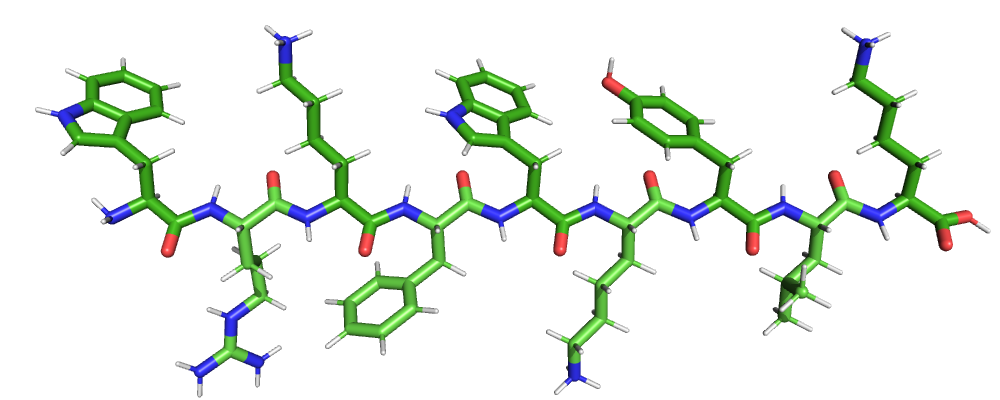
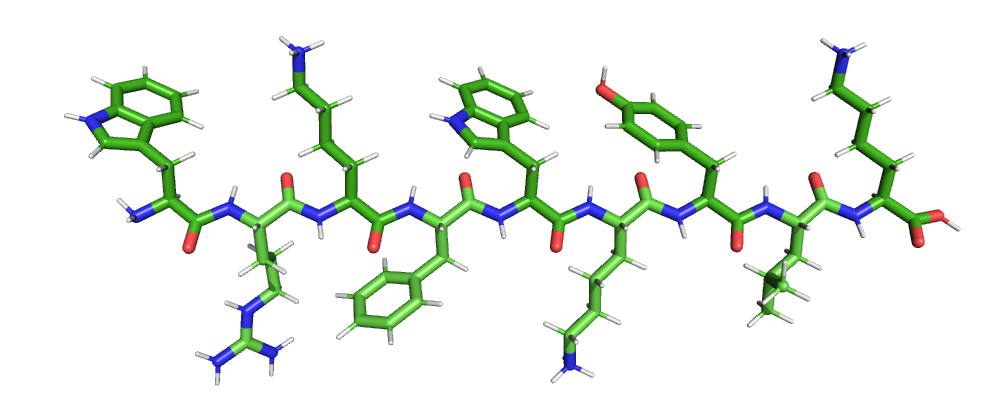
Cleaner example code

Changed region(s): [[0.031, 0.06, 0.992, 0.99]]

diff --git a/doc/examples/scripts/structure/peptide_assembly.py b/doc/examples/scripts/structure/peptide_assembly.py
@@ -6,12 +6,16 @@ This script presents a function that takes an amino acid sequence and
 builds a straight peptide structure (like a :math:`\beta`-strand) from
 it, including intramolecular bond information.
 
-The function starts by building a '*zigzag*' backbone containing ``N``,
-``CA`` and ``C`` atoms based on bond geometry.
+The function starts by building a backbone structure (N, CA, C) for all
+residues in the sequence resulting in a '*‘zigzag’*' chain.
 Then for each amino acid, the respective side chain atoms and their
 geometry are obtained from the reference PDB component dataset via
-:func:`biotite.structure.info.residue()` and the atoms are appended to
-the backbone in the right orientation via superimposition.
+:func:`biotite.structure.info.residue()` and are superimposed onto the
+backbone chain.
+The peptide bonds between the residues are formed and the atoms
+lost in condensation are removed.
+The geometry of the peptide oxygen and hydrogen atom is adjusted using
+known peptide bond geometry taken from a reference structure.
 """
 
 # Code source: Patrick Kunzmann
@@ -111,6 +115,89 @@ def append_residue(chain, residue):
     # Increment residue ID for attached residue
     residue.res_id[:] = last_res_id + 1
 
+C_N_LENGTH   = 1.34
+N_CA_LENGTH  = 1.46
+CA_C_LENGTH  = 1.54
+
+CA_C_N_ANGLE = 114
+C_N_CA_ANGLE = 123
+N_CA_C_ANGLE = 110
+
+# Reference peptide bond atom coordinates taken from 1l2y:
+# CA, C, N, O, H
+peptide_coord = np.array([
+    [-8.608, 3.135, -1.618], 
+    [-7.117, 2.964, -1.897],  
+    [-6.379, 4.031, -2.228],
+    [-6.634, 1.849, -1.758],
+    [-6.821, 4.923, -2.394]
+])
+
+
+def create_raw_backbone_coord(number_of_res):
+    """
+    Create coordinates for straight peptide chain in z-plane.
+    The peptide bonds are in trans configuration.
+    """
+    coord = np.zeros((number_of_res * 3, 3))
+    for i, angle, angle_direction, length in zip(
+        range(len(coord)),
+        itertools.cycle([CA_C_N_ANGLE, C_N_CA_ANGLE, N_CA_C_ANGLE]),
+        itertools.cycle([1, -1]),
+        itertools.cycle([C_N_LENGTH, N_CA_LENGTH, CA_C_LENGTH])
+    ):
+        if i == 0:
+            coord[i] = [0, 0, 0]
+        elif i == 1:
+            coord[i] = [0, length, 0]
+        else:
+            # Rotate about z-axis -> backbone lies in z-plane
+            rot_axis = [0, 0, angle_direction]
+            # Calculate the coordinates of a new atoms by rotating the
+            # previous bond by the given angle
+            new_coord = struc.rotate_about_axis(
+                coord[i-2],
+                axis = rot_axis,
+                angle = np.deg2rad(angle),
+                support = coord[i-1]
+            )
+            # Scale bond to correct bond length
+            bond_vector = new_coord - coord[i-1]
+            coord[i] = coord[i-1] + bond_vector * length / norm(bond_vector)
+    return coord
+
+
+def append_residue(chain, residue):
+    """
+    Append a residue to an existing chain.
+    Modify annotation arrays and remove atoms as necessary.
+    The atom coordinates are not altered.
+    """
+    if chain.array_length() == 0:
+        # Chain is empty
+        residue.res_id[:] = 1
+        return residue
+
+    last_res_id = chain.res_id[-1]
+    
+    # Remove atoms removed by peptide bond
+    chain = chain[
+        (chain.res_id != last_res_id) |
+        ~np.isin(
+            chain.atom_name,
+            ["OXT", "HXT"]
+        )
+    ]
+    residue = residue[
+        ~np.isin(
+            residue.atom_name,
+            ["H2", "H3"]
+        )
+    ]
+
+    # Increment residue ID for attached residue
+    residue.res_id[:] = last_res_id + 1
+
     # Append residue
     chain += residue
 
@@ -123,44 +210,47 @@ def append_residue(chain, residue):
     return chain
 
 
+def assemble_peptide(sequence):
+    res_names = [seq.ProteinSequence.convert_letter_1to3(r) for r in sequence]
+    backbone_coord = create_raw_backbone_coord(len(sequence))
+
+
+    chain = struc.AtomArray(0)
+    for i, res_name in enumerate(res_names):
+        residue = info.residue(res_name)
+        
+        # Superimpose residue to corresponding backbone coordinates 
+        _, transformation = struc.superimpose(
+            backbone_coord[3*i : 3*i + 3],
+            residue.coord[np.isin(residue.atom_name, ["N", "CA", "C"])]
+        )
+        residue = struc.superimpose_apply(residue, transformation)
+        
+        chain = append_residue(chain, residue)
+
+        if i != 0:
+            # Fix positions of peptide hydrogen and oxygen atom
+            ca_i, c_i, o_i = [
+                np.where(chain.atom_name == atom_name)[0][-2]
+                for atom_name in ["CA", "C", "O"]
+            ]
+            n_i, h_i = [
+                np.where(chain.atom_name == atom_name)[0][-1]
+                for atom_name in ["N", "H"]
+            ]
+            _, transformation = struc.superimpose(
+                chain.coord[[ca_i, c_i, n_i]],
+                peptide_coord[:3]
+            )
+            chain.coord[[o_i, h_i]] = struc.superimpose_apply(
+                peptide_coord[3:], transformation
+            )
+    return chain
+
+
 # Sequence of an antimicrobial peptide
 sequence = seq.ProteinSequence("WRKFWKYLK")
-res_names = [seq.ProteinSequence.convert_letter_1to3(r) for r in sequence]
-backbone_coord = create_raw_backbone_coord(len(sequence))
-
-
-chain = struc.AtomArray(0)
-for i, res_name in enumerate(res_names):
-    residue = info.residue(res_name)
-    
-    # Superimpose residue to corresponding backbone coordinates 
-    _, transformation = struc.superimpose(
-        backbone_coord[3*i : 3*i + 3],
-        residue.coord[np.isin(residue.atom_name, ["N", "CA", "C"])]
-    )
-    residue = struc.superimpose_apply(residue, transformation)
-    
-    chain = append_residue(chain, residue)
-
-    if i != 0:
-        # Fix positions of peptide hydrogen and oxygen atom
-        ca_i, c_i, o_i = [
-            np.where(chain.atom_name == atom_name)[0][-2]
-            for atom_name in ["CA", "C", "O"]
-        ]
-        n_i, h_i = [
-            np.where(chain.atom_name == atom_name)[0][-1]
-            for atom_name in ["N", "H"]
-        ]
-        _, transformation = struc.superimpose(
-            chain.coord[[ca_i, c_i, n_i]],
-            peptide_coord[:3]
-        )
-        chain.coord[[o_i, h_i]] = struc.superimpose_apply(
-            peptide_coord[3:], transformation
-        )
-
-
+chain = assemble_peptide(sequence)
 out_file = NamedTemporaryFile(suffix=".mmtf", delete=False)
 strucio.save_structure(out_file.name, chain)
 # Visualization with PyMOL...

diff --git a/doc/examples/scripts/structure/peptide_assembly_pymol.py b/doc/examples/scripts/structure/peptide_assembly_pymol.py
@@ -33,7 +33,7 @@ ammolite.cmd.set("depth_cue", 0)
 
 # Adjust camera
 pymol_obj.orient()
-pymol_obj.zoom(buffer=-8)
+pymol_obj.zoom(buffer=-7.5)
 
 # Save image
 ammolite.cmd.ray(*PNG_SIZE)
